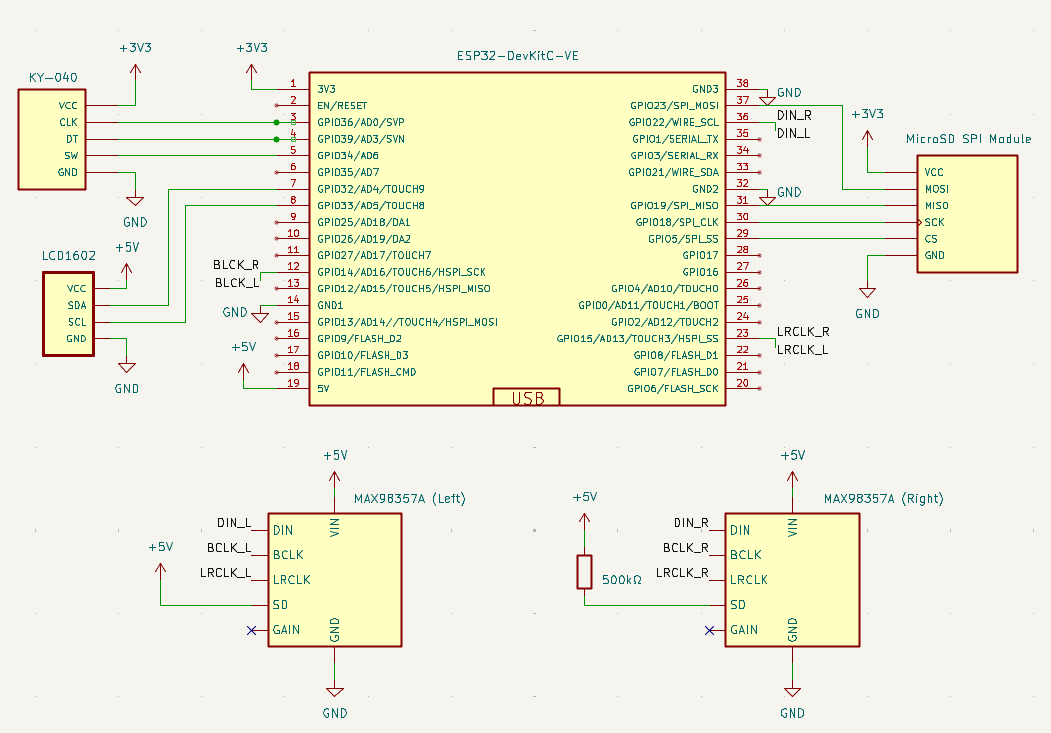
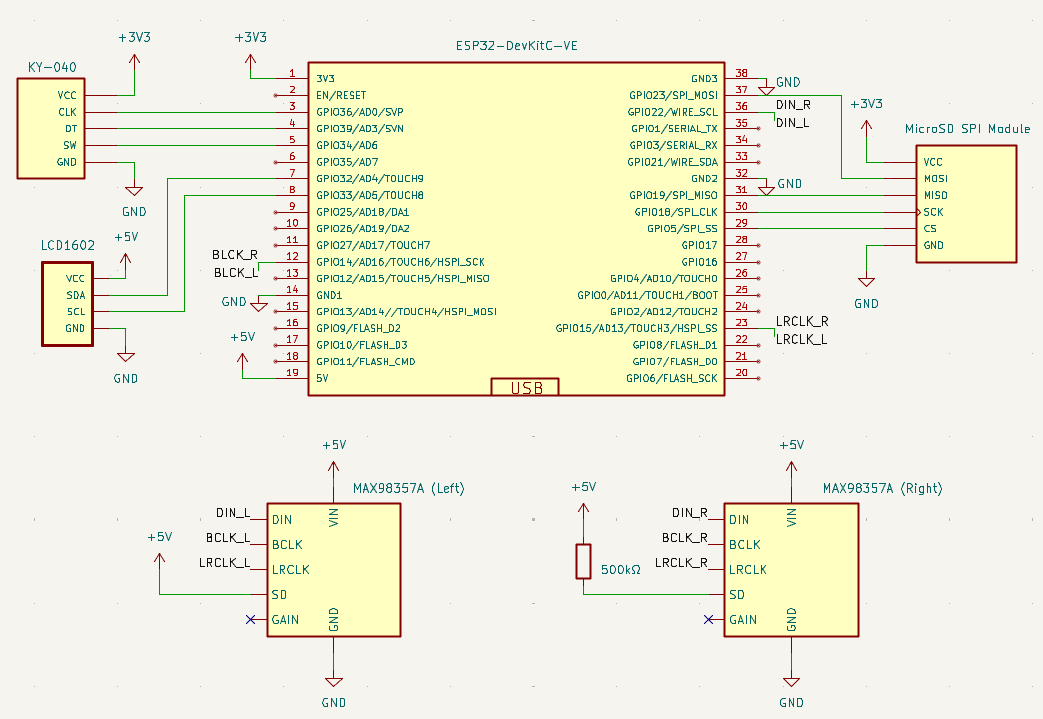
Revise README firmware desc, add notes to wiring diagram and flashing guide

diff --git a/README.md b/README.md
@@ -1,6 +1,6 @@
 # ESP32 MP3 Player
 
-A simple MP3 player!
+A simple breadboard MP3 player!
 
 ![final build](./images/hero_image.jpeg)
 
@@ -10,38 +10,50 @@ A simple MP3 player!
 ## Some highlights
 - High capacity storage support (64GB+)
 - File system that lets you select songs/folders
-- Play/pause, next song, return, and volume controls
+- Play/pause, next song, return to song browser, and volume controls
 
 ## How it works
 
-### File system
-I used the Arduino SdFat library to read MP3 files stored in a microSD card. The file system  is exFAT formatted to handle large microSD sizes, since <64GB microSD cards use the older FAT32 standard.
+This is meant to be a simple music player that has as little barrier to entry as possible - it's built with relatively cheap hobbyist electronic modules, an ESP32 which is quite popular and well documented, and a breadboard.
 
-### Audio decoding
-I used Arduino Audio Tools library to decode MP3 PCM signals into raw bitstreams. Then I2S is used to send the bitstream into a hardware DAC/AMP module that sends the audio to the speakers.
+The firmware is split into four main components which are implemented via object-oriented programming:
 
-### Playback
-All controls are handled through a single rotary encoder that includes a built-in button. I used FSMs to debounce encoder turns and detect different button presses.
+1. FileNavigation: 
+<br> Lets you nagivate the contents of your storage device (microSD) using functions that calculates file paths and directory depths. It also reads MP3 metadata in order to calculate song duration.. since this is surprisingly not already stored in metadata apparently.
+
+2. Controls:
+<br> This is responsible for reading user input from the rotary encoder + the built-in button. The encoder logic is implemented using a hardware interrupts and a state transition table to keep track of its rotation. For the button, polling and debounce timers are used instead since it needs to differentiate between three different button presses (single press, double press, long press).
+
+3. Display:
+<br> Contains functions to update and refresh the LCD display. Since the LCD only shows 16 characters max in one line, long text/filenames scroll across and wrap around the screen.
+
+4. PlaybackTime:
+<br> Keeps track of the song timer essentially by counting the PCM (pulse-code modulation) bytes outputted from the MP3 decoder at a known rate. 
 
 ## Hardware components
 
 These are the parts you'll need if you want to build it! This is also listed in the BOM.
 
-| Component | Part | Qty |
+| Component | Part #/Name| Qty |
 |:-----|:-------|:-------|
 | MCU    |   ESP32-DEVKITC-VE    | 1
 | Control    | KY-040      | 1
 | DAC/AMP    | MAX98357a    | 2
 | Display    | LCD1602 (w/ I2C backpack)    | 1
-| Storage    | MicroSD Module  (SPI)   | 1
-| Output    | 4/8 Ohm Speakers      | 2
+| Storage    | microSD module  (SPI)   | 1
+| Output    | 4/8 ohm speakers      | 2
 
 ## Wiring diagram
+
+Note: some pin labels may look slightly different on the physical module (you might see a pin called LRC on the MAX98357a - I called it LRCLK since that makes the pin function clearer to me).
+
 ![wiring diagram](./images/wiring_diagram.png)
 
 ## How to flash
 
+A little setup is required if you want to flash through Arduino IDE, but the gist of it is downloading this firmware, selecting the correct settings for the ESP32 board and flash partition, and installing the dependencies.
 
+You can also skip all of that and flash directly to the ESP32 with a pre-compiled binary provided via the GitHub Release. This does require installing esptool in order to flash the binary.
 
 
 ### Option 1. Manual setup w/ Arduino IDE
@@ -65,7 +77,7 @@ These are the parts you'll need if you want to build it! This is also listed in 
 
 
 
-### Option 2. Using the pre-complied binary
+### Option 2. Using the pre-compiled binary
 1. Install [esptool](https://docs.espressif.com/projects/esptool/en/latest/esp32/):
     ```
     pip install esptool
